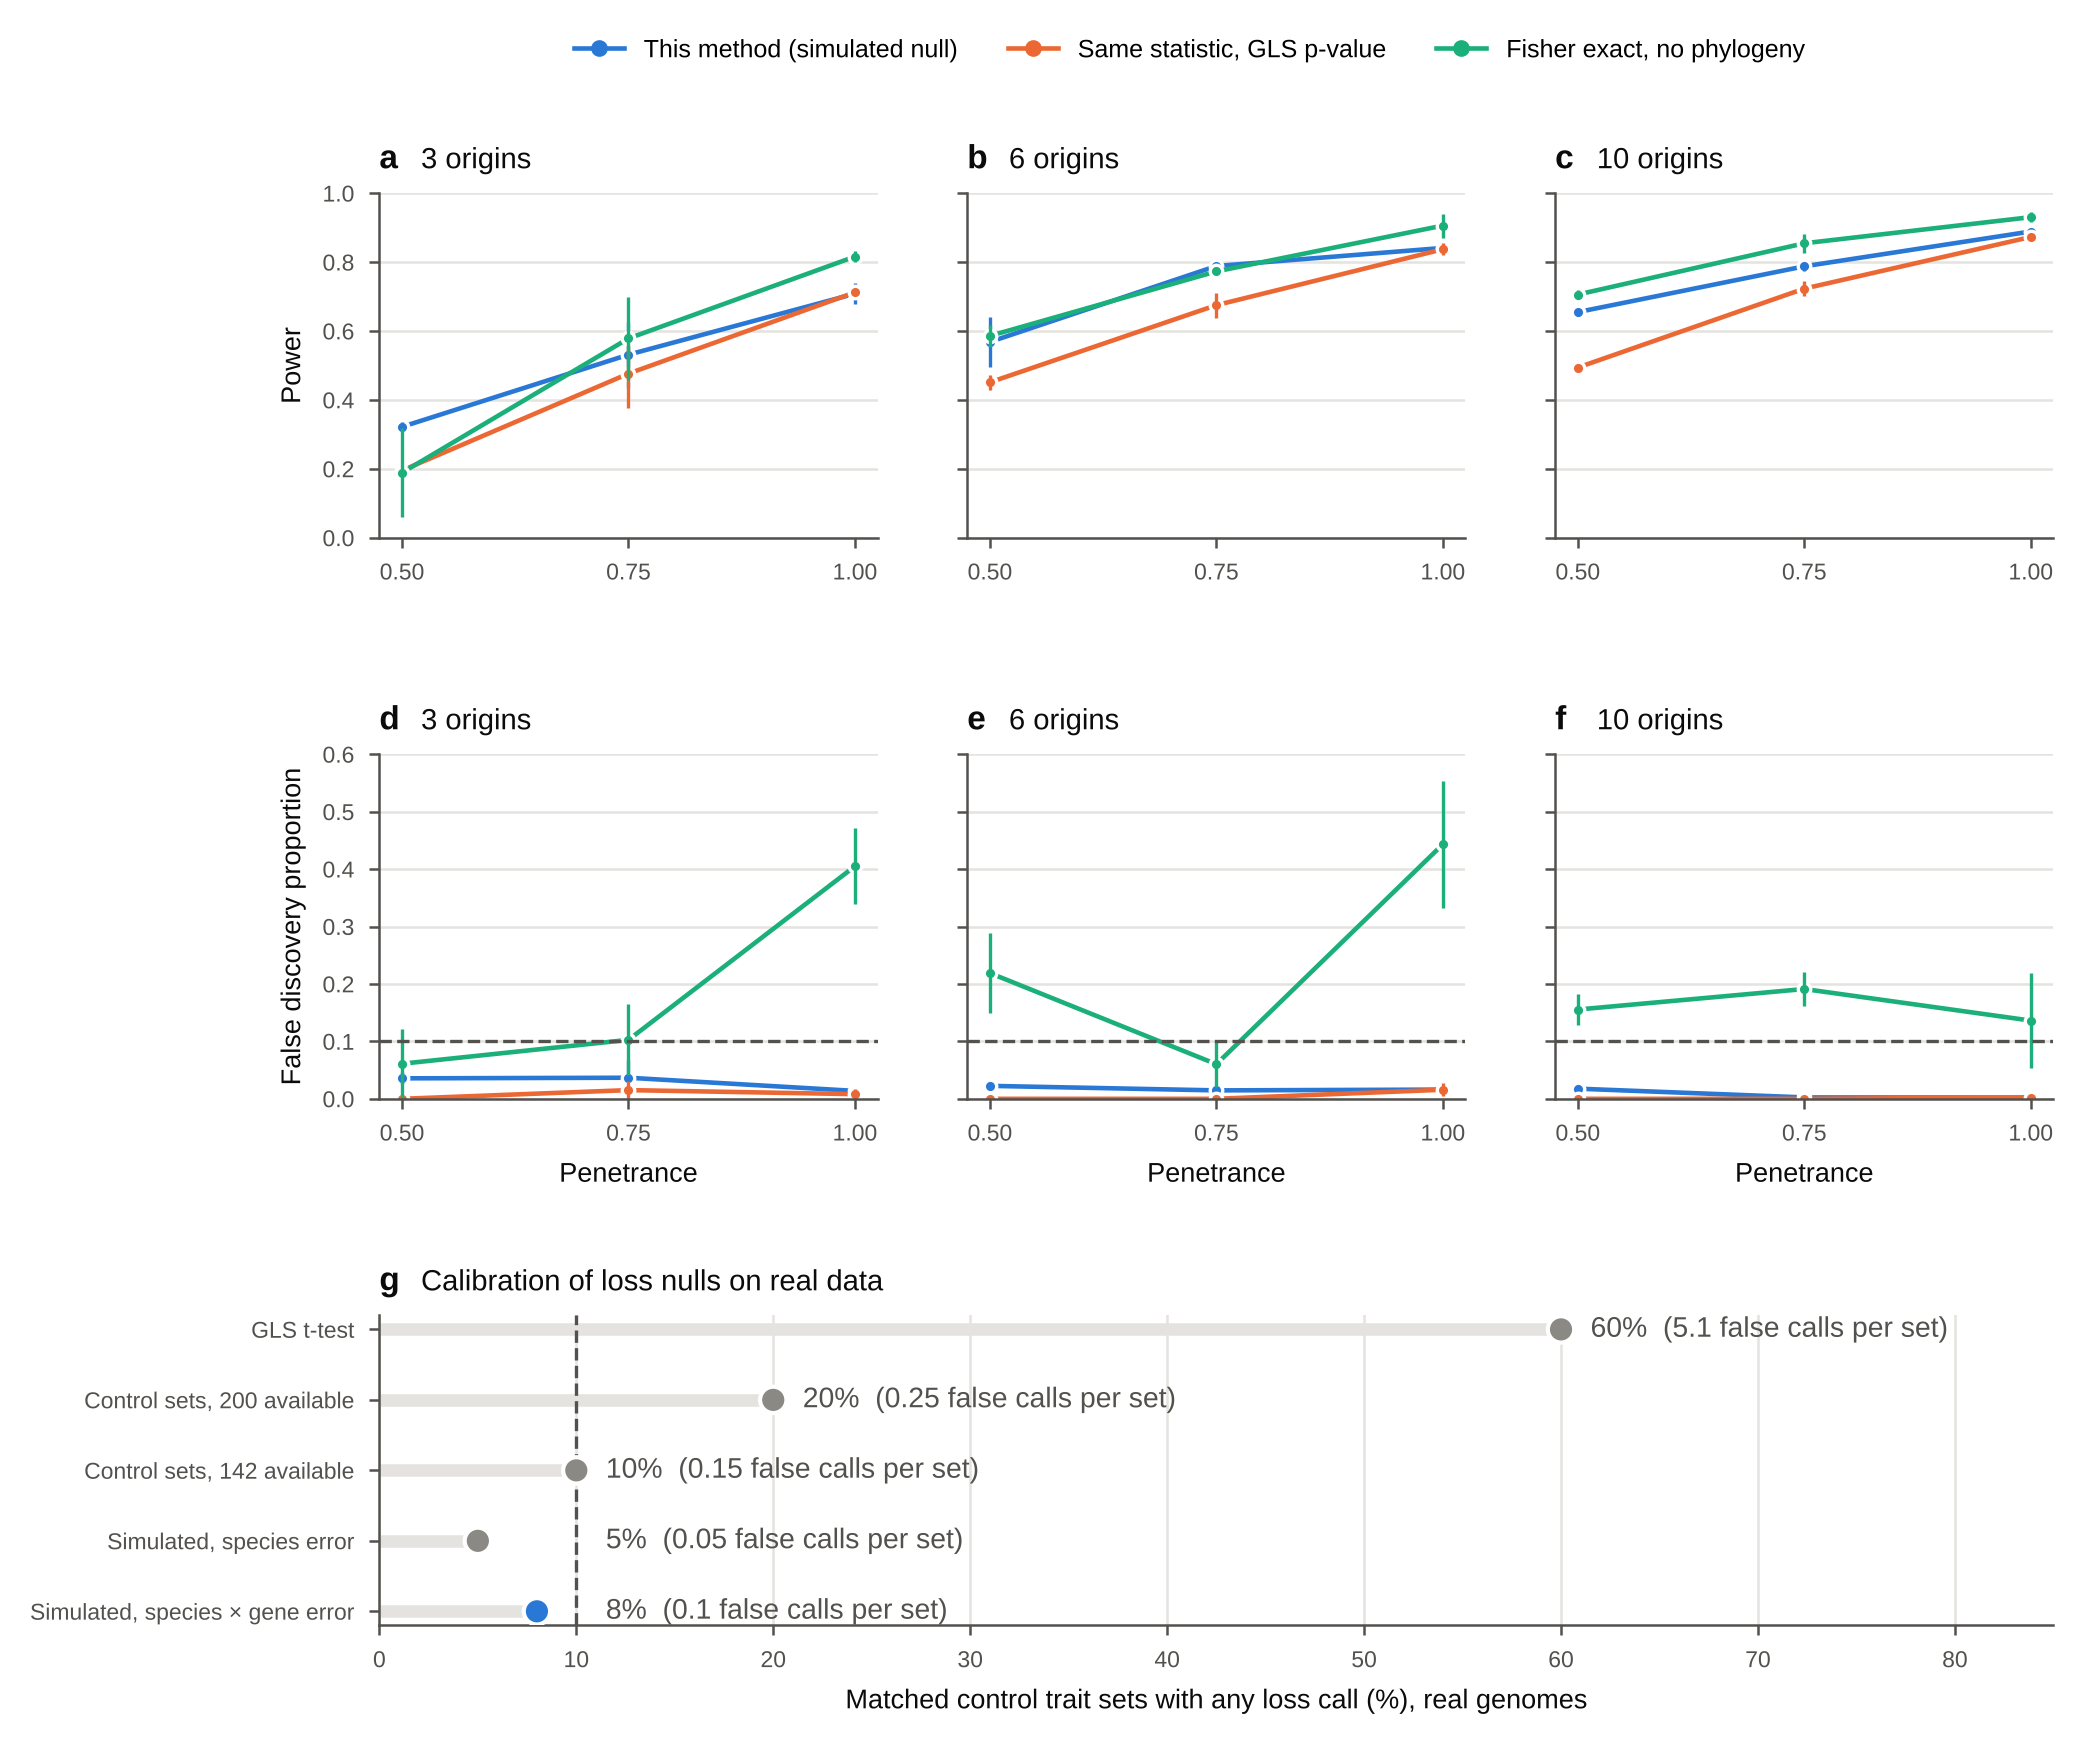
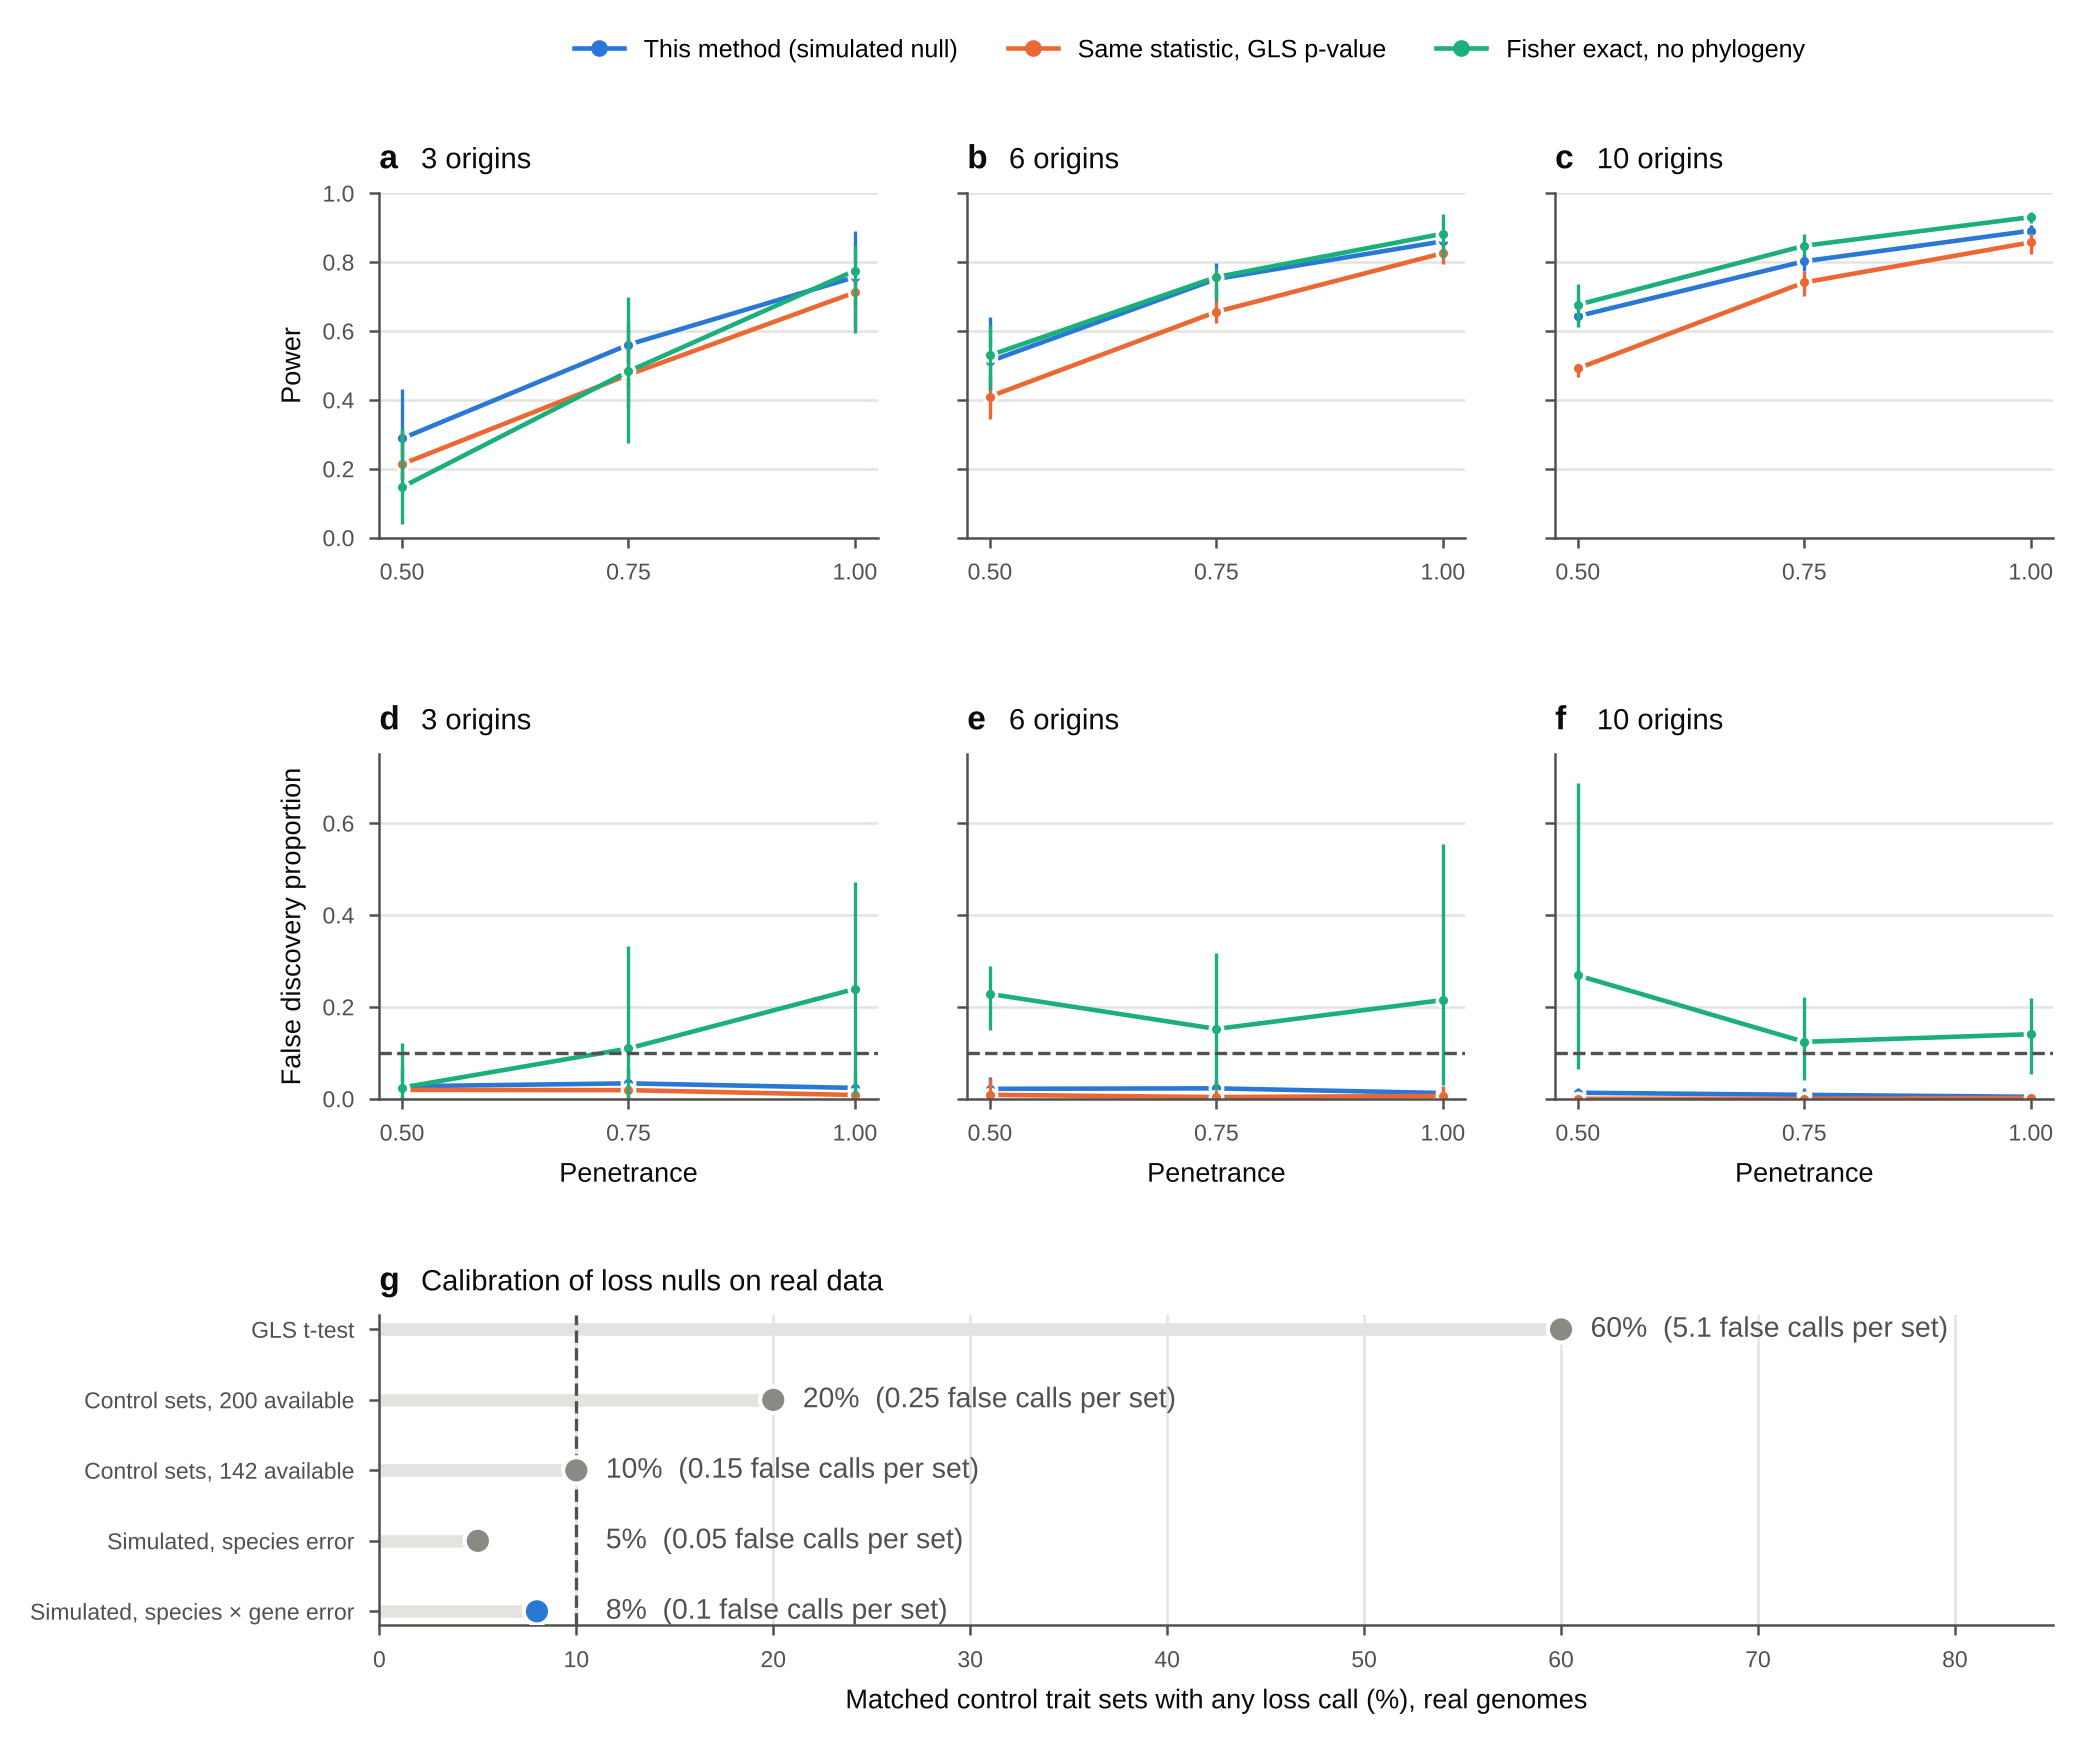
Loss benchmark with 5 replicates; redraw Fig. 3
Claude-Session: https://claude.ai/code/session_019utTifuXP1XtTYCS5CjKaD

diff --git a/scripts/make_figures.py b/scripts/make_figures.py
@@ -590,7 +590,7 @@ def figure3():
     fig = plt.figure(figsize=(7.2, 6.2))
     gs = fig.add_gridspec(3, 3, height_ratios=[1, 1, 0.9], hspace=0.65, wspace=0.18)
     letters = iter("abcdef")
-    for row, (col, ylab, ylim) in enumerate((("power", "Power", (0, 1)), ("fdp", "False discovery proportion", (0, 0.6)))):
+    for row, (col, ylab, ylim) in enumerate((("power", "Power", (0, 1)), ("fdp", "False discovery proportion", (0, 0.75)))):
         for j, k in enumerate(origins):
             ax = fig.add_subplot(gs[row, j])
             for m, lab, c in LOSS_METHODS:
